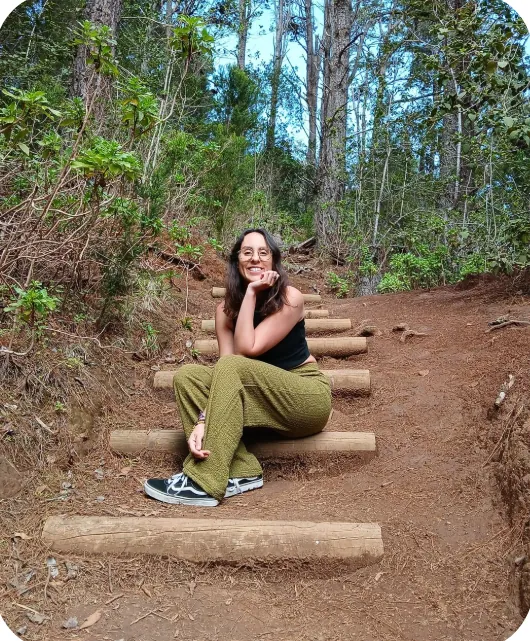
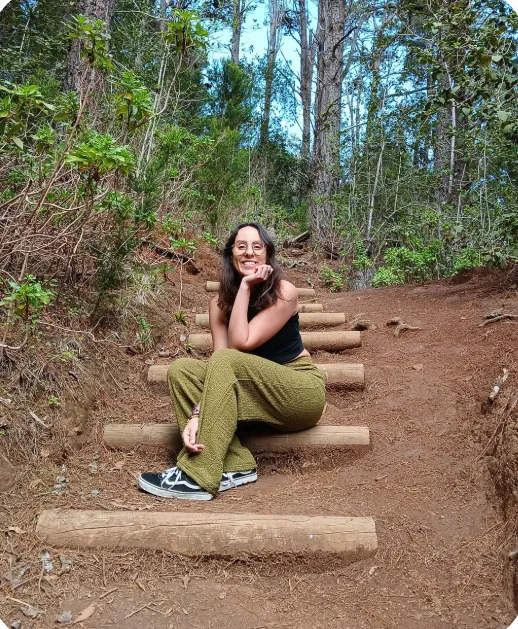
Add files via upload

diff --git a/index.html b/index.html
@@ -26,13 +26,13 @@
 <link rel="preload" href="fonts/manrope-latin-wght-normal.woff2" as="font" type="font/woff2" crossorigin>
 <link rel="stylesheet" href="css/styles.css">
 <script>document.documentElement.classList.add('js')</script>
-<script type="application/ld+json">{"@context":"https://schema.org","@type":"ProfessionalService","name":"Icíar Alonso Coach","description":"Acompañamiento emocional para transitar cambios internos profundos.","url":"https://iciarcoach.es/","email":"info@iciaralonsocoach.com"}</script>
+<script type="application/ld+json">{"@context":"https://schema.org","@type":"ProfessionalService","name":"Icíar Alonso Coach","description":"Acompañamiento emocional para transitar cambios internos profundos.","url":"https://iciarcoach.es/","email":"info@iciaralonsocoach.com","sameAs":["https://www.instagram.com/iciar_coach/"]}</script>
 </head>
 <body>
 <a class="skip" href="#principal">Saltar al contenido</a>
 
 <header class="bar" id="bar">
-  <a class="bar__mark" href="#inicio" aria-label="Caminar(se), inicio">Caminar(se)</a>
+  <a class="bar__mark" href="#inicio" aria-label="Icíar Coach, inicio">ICÍAR COACH</a>
   <button class="bar__btn" id="menuBtn" aria-expanded="false" aria-controls="menu">Menú</button>
 </header>
 <nav class="menu" id="menu" aria-label="Principal" hidden>
@@ -107,7 +107,7 @@
 </section>
 
 <section class="yo" id="quien-soy">
-  <figure class="yo__fig reveal"><img src="img/sonrisa.webp" alt="Icíar sonriendo, sentada en una escalera de troncos en el bosque" width="530" height="641" loading="lazy"></figure>
+  <figure class="yo__fig reveal"><img src="img/sonrisa.webp" alt="Icíar sonriendo, sentada en una escalera de troncos en el bosque" width="518" height="629" loading="lazy"></figure>
   <div class="yo__body">
     <h2 class="h2">Sobre mí</h2>
     <p class="lead">Soy Icíar. Y no trabajo desde fórmulas, sino desde la experiencia. También yo he transitado rupturas internas, identidades que se caen, decisiones que remueven todo.</p>
@@ -118,10 +118,15 @@
 <section class="voces" id="testimonios" aria-labelledby="voces-h">
   <h2 class="h2" id="voces-h">Lo dicen ellas</h2>
   <p class="voces__note">Testimonios reales compartidos de forma anónima, con el consentimiento de las personas acompañadas.</p>
-  <div class="voces__track" tabindex="0" role="group" aria-label="Testimonios, desliza para leer más">
-    <blockquote><p>“La confianza en mí misma ha crecido muchísimo. Aprendí a mirarme con amor, con paciencia, incluso con orgullo por decisiones que antes dudaba. Es duro, pero necesario. Esta profundidad solo está en procesos como este.”</p></blockquote>
-    <blockquote><p>“Por primera vez me comprometí con cada propuesta del proceso. Incluso lo que no entendía en el momento, luego cobraba sentido. Sentí que Icíar se adaptaba a mí, sin forzarme. Y el espacio físico, esos pasos entre árboles, fue parte de la transformación.”</p></blockquote>
-    <blockquote><p>“Acogimiento. Refugio. Claridad. Honestidad. Pasión. Así describiría lo que viví aquí. Sin juicio, con sostén. Lo recomiendo siempre que alguien me cuenta que se siente perdida.”</p></blockquote>
+  <div class="voces__stage" id="vocesStage" aria-roledescription="carrusel" aria-label="Testimonios">
+    <blockquote class="voz is-on" aria-label="Testimonio 1 de 3"><p>“La confianza en mí misma ha crecido muchísimo. Aprendí a mirarme con amor, con paciencia, incluso con orgullo por decisiones que antes dudaba. Es duro, pero necesario. Esta profundidad solo está en procesos como este.”</p></blockquote>
+    <blockquote class="voz" aria-label="Testimonio 2 de 3"><p>“Por primera vez me comprometí con cada propuesta del proceso. Incluso lo que no entendía en el momento, luego cobraba sentido. Sentí que Icíar se adaptaba a mí, sin forzarme. Y el espacio físico, esos pasos entre árboles, fue parte de la transformación.”</p></blockquote>
+    <blockquote class="voz" aria-label="Testimonio 3 de 3"><p>“Acogimiento. Refugio. Claridad. Honestidad. Pasión. Así describiría lo que viví aquí. Sin juicio, con sostén. Lo recomiendo siempre que alguien me cuenta que se siente perdida.”</p></blockquote>
+  </div>
+  <div class="voces__nav" id="vocesNav" hidden>
+    <button type="button" id="vPrev" aria-label="Testimonio anterior">←</button>
+    <span id="vCount" aria-live="polite">01 / 03</span>
+    <button type="button" id="vNext" aria-label="Testimonio siguiente">→</button>
   </div>
 </section>
 
@@ -148,9 +153,10 @@
   <p class="end__a">Caminar(se) no es un proceso para cambiar quién eres, sino para volver a ti, con todo lo que eres ahora.</p>
   <p class="end__b">Caminar(se) empieza con un primer paso.</p>
   <a class="btn btn--light" href="https://wa.link/zugo5a" rel="noopener">Quiero dar el primer paso</a>
-  <p class="end__c"><a href="mailto:info@iciaralonsocoach.com">info@iciaralonsocoach.com</a> <a href="https://wa.link/zugo5a" rel="noopener">WhatsApp</a></p>
+  <p class="end__c"><a href="mailto:info@iciaralonsocoach.com">info@iciaralonsocoach.com</a> <a href="https://wa.link/zugo5a" rel="noopener">WhatsApp</a> <a href="https://www.instagram.com/iciar_coach/" rel="noopener" target="_blank">Instagram <span class="sr">(se abre en una pestaña nueva)</span></a></p>
   <svg class="end__line" viewBox="0 0 600 40" aria-hidden="true" focusable="false"><path d="M0 22 C100 2 160 40 280 20 S480 2 600 20"/></svg>
   <p class="end__sign">Icíar Alonso · Coach</p>
+  <p class="end__legal">© 2026 Icíar Alonso Coach. Todos los derechos reservados.<br>Web hecha por <a href="https://www.aitorhernandez.es" rel="noopener" target="_blank">Aitor Hernandez<span class="sr"> (se abre en una pestaña nueva)</span></a></p>
 </footer>
 <script src="js/main.js" defer></script>
 </body>

diff --git a/css/styles.css b/css/styles.css
@@ -15,7 +15,7 @@ em{font-style:italic}
 /* barra */
 .bar{position:fixed;inset:0 0 auto;z-index:20;display:flex;justify-content:space-between;align-items:center;padding:calc(1.1rem + env(safe-area-inset-top)) var(--pad) 1rem;color:var(--marfil);mix-blend-mode:normal;transition:transform .5s var(--ease)}
 .bar.is-hidden{transform:translateY(-110%)}
-.bar__mark{font:italic 400 1.25rem var(--serif);text-decoration:none}
+.bar__mark{font:400 .95rem var(--serif);letter-spacing:.28em;text-decoration:none}
 .bar__btn{background:none;border:0;color:inherit;font:600 .8rem var(--sans);letter-spacing:.14em;text-transform:lowercase;padding:.6rem 0;cursor:pointer;border-bottom:1px solid currentColor}
 .menu{position:fixed;inset:0;z-index:15;background:var(--bosque);color:var(--marfil);display:flex;align-items:center;padding:var(--pad)}
 .menu[hidden]{display:none}
@@ -92,13 +92,17 @@ em{font-style:italic}
 .yo .h2{margin-bottom:1.5rem}.yo .lead{margin-bottom:1.5rem}.yo__body>p:last-child{max-width:34rem}
 
 /* testimonios */
-.voces{background:var(--salvia);padding:6rem 0 6rem}
-.voces .h2,.voces__note{padding:0 var(--pad)}
-.voces__note{margin:1rem 0 3rem;max-width:32rem;font-size:.95rem}
-.voces__track{display:flex;gap:3rem;overflow-x:auto;scroll-snap-type:x mandatory;padding:0 var(--pad) 1rem;scrollbar-width:none}
-.voces__track::-webkit-scrollbar{display:none}
-blockquote{flex:0 0 min(86vw,34rem);scroll-snap-align:start}
-blockquote p{font:300 clamp(1.3rem,4.6vw,1.75rem)/1.45 var(--serif)}
+.voces{background:var(--salvia);padding:6rem var(--pad)}
+.voces__note{margin:1rem 0 4rem;max-width:32rem;font-size:.95rem}
+.voces__stage{display:grid}
+blockquote{grid-area:1/1}
+blockquote p{font:300 clamp(1.45rem,5.2vw,2.6rem)/1.35 var(--serif);max-width:26em;letter-spacing:-.01em}
+.js .voz{opacity:0;visibility:hidden;transform:translateY(.8rem);transition:opacity .7s var(--ease),transform .7s var(--ease),visibility 0s .7s}
+.js .voz.is-on{opacity:1;visibility:visible;transform:none;transition-delay:0s}
+.voces__nav{display:flex;align-items:center;gap:1.5rem;margin-top:3.5rem;font-size:.85rem;letter-spacing:.14em}
+.voces__nav button{width:3rem;height:3rem;border-radius:50%;border:1px solid var(--carbon);background:none;color:inherit;font-size:1.1rem;cursor:pointer;transition:background .3s,color .3s}
+.voces__nav button:hover{background:var(--carbon);color:var(--salvia)}
+.sr{position:absolute;width:1px;height:1px;overflow:hidden;clip:rect(0 0 0 0);white-space:nowrap}
 
 /* faq */
 .faq{padding:7rem var(--pad);max-width:60rem}
@@ -129,10 +133,12 @@ details p{padding:0 0 1.6rem;max-width:40rem}
 .end__line path{fill:none;stroke:var(--salvia);stroke-width:1.2;stroke-dasharray:700;stroke-dashoffset:700;transition:stroke-dashoffset 2.6s var(--ease)}
 .end__line.draw path{stroke-dashoffset:0}
 .end__sign{font-size:.72rem;letter-spacing:.3em;opacity:.6}
+.end__legal{font-size:.8rem;opacity:.7;line-height:1.8;border-top:1px solid rgba(244,240,231,.2);padding-top:1.5rem;width:100%;margin-top:1rem}
+.end__legal a{text-underline-offset:3px}
 
 /* reveal de imagen */
-.js .reveal{clip-path:inset(0 0 100% 0);transition:clip-path 1.5s var(--ease)}
-.js .reveal.in{clip-path:inset(0)}
+.js .reveal img{clip-path:inset(0 0 100% 0);transition:clip-path 1.5s var(--ease)}
+.js .reveal.in img{clip-path:inset(0)}
 
 @media(min-width:48em){
  body{font-size:1.125rem}
@@ -153,13 +159,13 @@ details p{padding:0 0 1.6rem;max-width:40rem}
  .call__h{max-width:12em}.call__p{max-width:26rem}
  .yo{grid-template-columns:5fr 6fr;align-items:center;gap:clamp(3rem,8vw,9rem);padding-block:10rem}
  .yo__fig{width:100%}
- .voces{padding-block:9rem}
+ .voces{padding-block:9rem}.voces__stage{max-width:62rem}
  .faq{margin-left:auto;margin-right:auto}
  .end{padding-top:12rem}
 }
 @media(prefers-reduced-motion:reduce){
  html{scroll-behavior:auto}
  *{transition-duration:.01ms!important}
- .js .line>span{transform:none}.js .reveal{clip-path:none}.pause__t .w{opacity:1}
+ .js .line>span{transform:none}.js .reveal img{clip-path:none}.pause__t .w{opacity:1}
  .end__line path{stroke-dashoffset:0}
 }

diff --git a/js/main.js b/js/main.js
@@ -43,4 +43,12 @@
     if (e.isIntersecting) { e.target.classList.add('in', 'draw'); io.unobserve(e.target); }
   }), { threshold: .25 });
   d.querySelectorAll('.reveal, .end__line').forEach(el => io.observe(el));
+
+  /* testimonios */
+  const vs=[...d.querySelectorAll('.voz')], vn=d.getElementById('vocesNav');
+  if(vs.length>1){
+    vn.hidden=false; let k=0;
+    const show=n=>{k=(n+vs.length)%vs.length;vs.forEach((v,i)=>v.classList.toggle('is-on',i===k));d.getElementById('vCount').textContent=String(k+1).padStart(2,'0')+' / '+String(vs.length).padStart(2,'0')};
+    d.getElementById('vPrev').onclick=()=>show(k-1);d.getElementById('vNext').onclick=()=>show(k+1);
+  }
 })();
